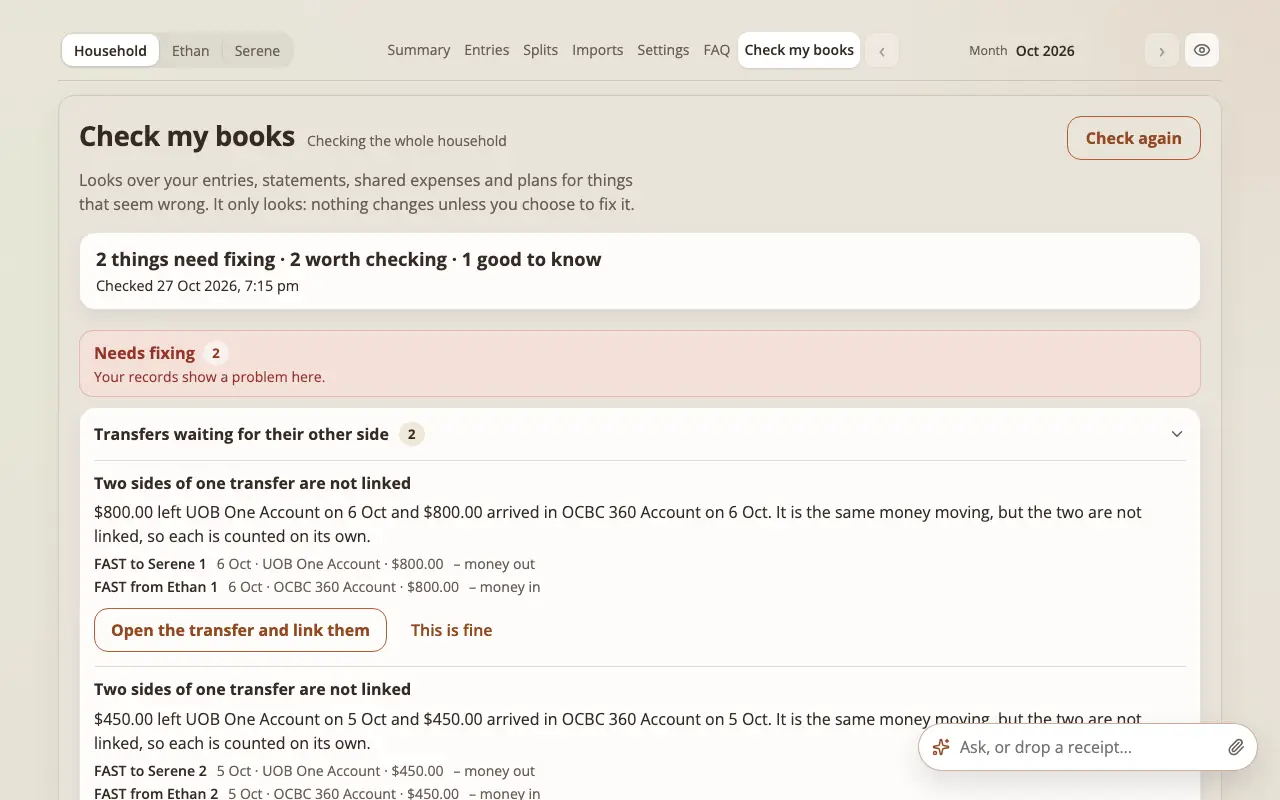
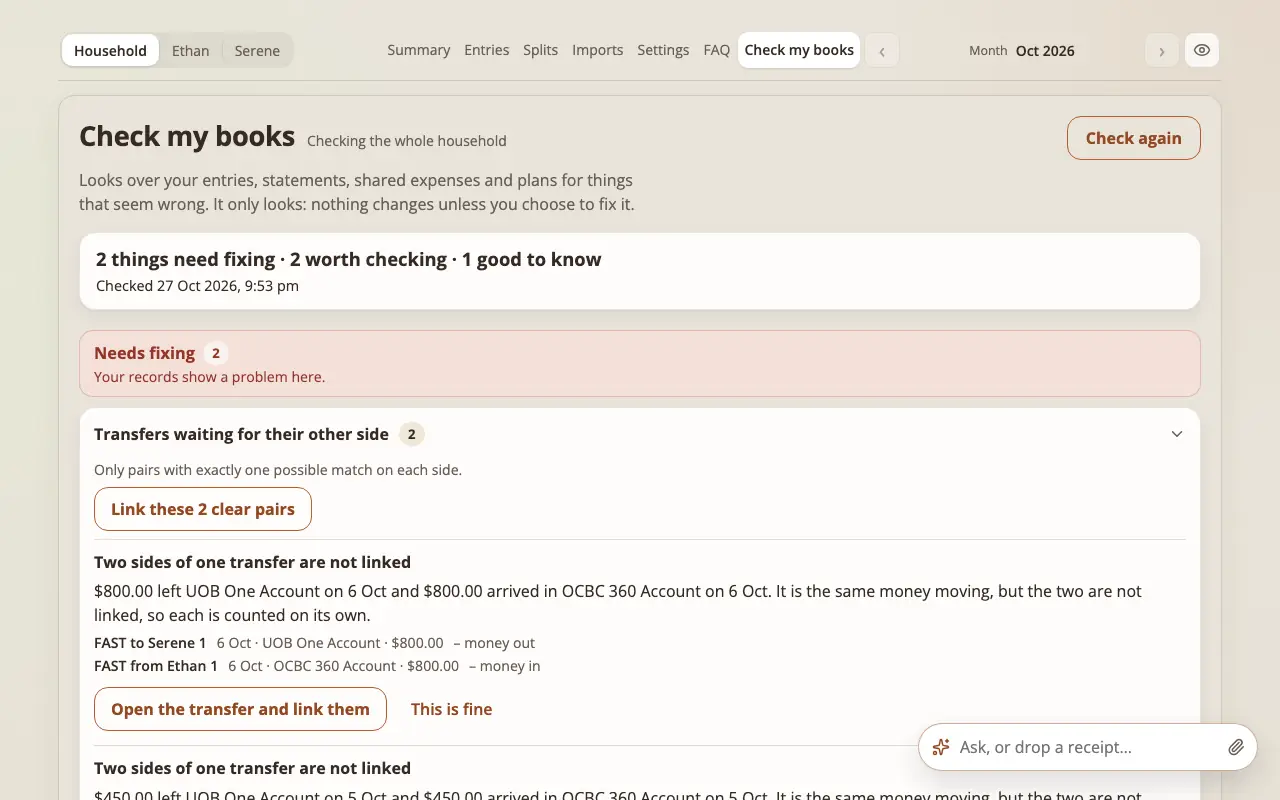
Add Link clear pairs e2e, guide screenshots and the opener focus return

Changed region(s): [[0.0625, 0.5625, 0.9062, 1.0], [0.1875, 0.3438, 0.2188, 0.375]]

diff --git a/tests/e2e/check-link-clear-pairs.spec.js b/tests/e2e/check-link-clear-pairs.spec.js
@@ -1,0 +1,205 @@
+import { devices, expect, test } from "@playwright/test";
+
+import { postJson, reseedDemo } from "./helpers";
+
+// "Link these N clear pairs" on Check my books (docs/flows/check-flow.md,
+// "Link clear pairs"), at a desktop width and at 390 px. Seven unlinked
+// transfer pairs of different amounts (each side has exactly one possible
+// match) make the group; the button opens one preview, nothing changes until
+// the confirming button, the result line says how many were linked and
+// skipped, the list and the counts then refresh, and a pair that changed
+// while the dialog was open is skipped by name. Money hidden shows no amount.
+
+const DESKTOP = { width: 1280, height: 900 };
+const PHONE = devices["iPhone 12 Pro"].viewport;
+const PAIRS = 7;
+
+function isoDay(offsetDays) {
+  return new Date(Date.now() + offsetDays * 86_400_000).toISOString().slice(0, 10);
+}
+
+async function seedPairs(page) {
+  await postJson(page, "/api/accounts/create", { name: "Joyce Bank", institution: "DBS", kind: "bank", currency: "SGD", openingBalanceMinor: 0, ownerPersonId: "person-joyce" });
+  const entry = (body) => postJson(page, "/api/entries/create", { ownershipType: "direct", ownerName: "Tim", categoryName: "Groceries", entryType: "expense", ...body });
+  const ids = [];
+  for (let index = 1; index <= PAIRS; index += 1) {
+    const amountMinor = 70_000 + index * 1_111;
+    const date = isoDay(-(20 + index * 3));
+    const out = await entry({ date, description: `FAST to Joyce ${index}`, accountName: "UOB Savings", categoryName: "Transfer", entryType: "transfer", transferDirection: "out", amountMinor });
+    const into = await entry({ date, description: `FAST from Tim ${index}`, accountName: "Joyce Bank", categoryName: "Transfer", entryType: "transfer", transferDirection: "in", amountMinor, ownerName: "Joyce" });
+    ids.push({ fromEntryId: out.entryId, toEntryId: into.entryId });
+  }
+  return ids;
+}
+
+async function readReport(page) {
+  const response = await page.request.get("/api/ledger-checkup");
+  expect(response.ok()).toBe(true);
+  return response.json();
+}
+
+async function loadCheck(page) {
+  const answered = page.waitForResponse((response) => response.url().includes("/api/ledger-checkup") && response.request().method() === "GET");
+  await page.goto("/check?view=household");
+  await answered;
+  await expect(page.getByRole("heading", { name: "Check my books", level: 2 })).toBeVisible();
+}
+
+const group = (page) => page.locator('[data-group="high:transfers"]');
+const dialog = (page) => page.getByRole("dialog");
+
+for (const [label, viewport] of [["desktop", DESKTOP], ["390 px phone", PHONE]]) {
+  test.describe(`Link clear pairs on ${label}`, () => {
+    test.use({ viewport });
+    let seeded;
+
+    test.beforeEach(async ({ page }) => {
+      await page.addInitScript(() => window.localStorage.setItem("monies-map:money-totals-visible", "true"));
+      await page.goto("/");
+      await reseedDemo(page);
+      seeded = await seedPairs(page);
+    });
+
+    test("the group says what clear means and offers the button with the server's count", async ({ page }) => {
+      const report = await readReport(page);
+      expect(report.clearTransferPairCount).toBe(PAIRS);
+      await loadCheck(page);
+      await expect(group(page).getByText("Only pairs with exactly one possible match on each side.")).toBeVisible();
+      await expect(group(page).getByRole("button", { name: `Link these ${PAIRS} clear pairs of transfers` })).toHaveText(`Link these ${PAIRS} clear pairs`);
+      // The ordinary rows are still there with their own link.
+      await expect(group(page).locator(".check-item[data-finding-id]").first().getByRole("button", { name: /^Open the transfer and link them/ })).toBeVisible();
+    });
+
+    test("the preview lists the pairs, Cancel changes nothing, and opening it shifts nothing", async ({ page }) => {
+      await loadCheck(page);
+      await page.evaluate(() => {
+        window.__shift = 0;
+        new PerformanceObserver((list) => {
+          for (const entry of list.getEntries()) if (!entry.hadRecentInput) window.__shift += entry.value;
+        }).observe({ type: "layout-shift", buffered: false });
+      });
+      const panelTop = async () => page.locator(".check-panel").evaluate((node) => Math.round(node.getBoundingClientRect().top + window.scrollY));
+      // Positions on the page itself (not the viewport, which the scroll moves).
+      const groupBox = async () => group(page).evaluate((node) => {
+        const box = node.getBoundingClientRect();
+        return { top: Math.round(box.top + window.scrollY), left: Math.round(box.left), width: Math.round(box.width), height: Math.round(box.height) };
+      });
+      const groupBefore = await groupBox();
+      const topBefore = await panelTop();
+      const before = await readReport(page);
+
+      await group(page).getByRole("button", { name: `Link these ${PAIRS} clear pairs of transfers` }).click();
+      await expect(dialog(page)).toBeVisible();
+      await expect(dialog(page)).toHaveAccessibleName(`Link ${PAIRS} clear pairs`);
+      await expect(dialog(page)).toContainText(`Link ${PAIRS} clear pairs`);
+      await expect(dialog(page).getByText(/^7 pairs, [A-Z][a-z]{2} \d{4}( to [A-Z][a-z]{2} \d{4})?$|^7 pairs in [A-Z][a-z]{2} \d{4}$/)).toBeVisible();
+      await expect(dialog(page).locator(".check-pairs-list li")).toHaveCount(PAIRS);
+      const first = dialog(page).locator(".check-pairs-list li").first();
+      await expect(first).toContainText("UOB Savings → Joyce Bank");
+      await expect(first.locator(".check-pairs-amount")).toHaveText(/^\$\d+/);
+      await expect(dialog(page)).toContainText("Each pair will become one move between your accounts. Nothing is deleted. You can unlink a pair from its details.");
+      await expect(dialog(page)).toContainText("There is no undo for all of them at once.");
+      await expect(dialog(page).getByRole("button", { name: `Link ${PAIRS} pairs` })).toBeEnabled();
+
+      await dialog(page).getByRole("button", { name: "Cancel" }).click();
+      await expect(dialog(page)).toHaveCount(0);
+      expect(await readReport(page)).toEqual({ ...before, generatedAt: expect.any(String) });
+      expect((await page.request.get("/api/ledger-checkup/clear-pairs")).ok()).toBe(true);
+      await expect(group(page).locator(".check-item[data-finding-id]").first()).toBeVisible();
+      expect(await panelTop()).toBe(topBefore);
+      expect(await groupBox()).toEqual(groupBefore);
+      expect(await page.evaluate(() => window.__shift)).toBe(0);
+    });
+
+    test("confirming links every pair once, says so, and the page then shows them gone", async ({ page }) => {
+      await loadCheck(page);
+      const linkRequests = [];
+      page.on("request", (request) => {
+        if (request.method() === "POST" && request.url().includes("/api/ledger-checkup/clear-pairs")) linkRequests.push(request.postDataJSON());
+      });
+      await group(page).getByRole("button", { name: `Link these ${PAIRS} clear pairs of transfers` }).click();
+      await dialog(page).getByRole("button", { name: `Link ${PAIRS} pairs` }).click();
+      await expect(dialog(page).getByRole("status").filter({ hasText: "Linked" })).toHaveText(`Linked ${PAIRS} pairs. 0 skipped.`);
+      // One request with exactly the pairs that were shown.
+      expect(linkRequests).toHaveLength(1);
+      expect(linkRequests[0].pairs.map((pair) => `${pair.fromEntryId}>${pair.toEntryId}`).sort()).toEqual(seeded.map((pair) => `${pair.fromEntryId}>${pair.toEntryId}`).sort());
+      await dialog(page).getByRole("button", { name: "Close", exact: true }).click();
+      await expect(dialog(page)).toHaveCount(0);
+
+      // The list and the counts refreshed: the group of waiting pairs is gone.
+      await expect(page.locator('[data-group="high:transfers"]')).toHaveCount(0);
+      const report = await readReport(page);
+      expect(report.clearTransferPairCount).toBe(0);
+      expect(report.kindCounts.unmatched_transfer?.high ?? 0).toBe(0);
+      await expect(page.locator("#check-summary-title")).not.toContainText("need");
+      // Focus did not fall back to the top of the document.
+      await expect(page.locator("#check-title")).toBeFocused();
+      // The entries really are linked pairs now.
+      const entries = await page.request.get(`/api/entries-page?view=household&month=${isoDay(-23).slice(0, 7)}`);
+      expect(entries.ok()).toBe(true);
+    });
+
+    test("a pair that changed while the dialog was open is skipped by name, the rest are linked", async ({ page }) => {
+      await loadCheck(page);
+      await group(page).getByRole("button", { name: `Link these ${PAIRS} clear pairs of transfers` }).click();
+      await expect(dialog(page).locator(".check-pairs-list li")).toHaveCount(PAIRS);
+      // Meanwhile one of them is linked by hand elsewhere.
+      const linked = await page.request.post("/api/transfers/link", { data: seeded[0] });
+      expect(linked.ok()).toBe(true);
+      await dialog(page).getByRole("button", { name: `Link ${PAIRS} pairs` }).click();
+      await expect(dialog(page).getByRole("status").filter({ hasText: "Linked" })).toHaveText(`Linked ${PAIRS - 1} pairs. 1 changed since you looked and was skipped.`);
+      await dialog(page).getByRole("button", { name: "Close", exact: true }).click();
+      expect((await readReport(page)).clearTransferPairCount).toBe(0);
+    });
+
+    test("with money hidden no amount is shown in the dialog", async ({ page }) => {
+      await page.addInitScript(() => window.localStorage.setItem("monies-map:money-totals-visible", "false"));
+      await loadCheck(page);
+      await group(page).getByRole("button", { name: `Link these ${PAIRS} clear pairs of transfers` }).click();
+      await expect(dialog(page).locator(".check-pairs-list li")).toHaveCount(PAIRS);
+      await expect(dialog(page).locator(".check-pairs-amount")).toHaveCount(0);
+      expect(await dialog(page).innerText()).not.toMatch(/\$|\b\d{2,3},?\d{3}\b|71,111/);
+      await dialog(page).getByRole("button", { name: "Cancel" }).click();
+    });
+
+    test("it works from the keyboard: Enter opens it, Escape closes it without linking, Enter on the confirming button links", async ({ page }) => {
+      await loadCheck(page);
+      const button = group(page).getByRole("button", { name: `Link these ${PAIRS} clear pairs of transfers` });
+      await button.focus();
+      await page.keyboard.press("Enter");
+      await expect(dialog(page)).toBeVisible();
+      await page.keyboard.press("Escape");
+      await expect(dialog(page)).toHaveCount(0);
+      await expect(button).toBeFocused();
+      expect((await readReport(page)).clearTransferPairCount).toBe(PAIRS);
+
+      await page.keyboard.press("Enter");
+      const confirm = dialog(page).getByRole("button", { name: `Link ${PAIRS} pairs` });
+      await expect(confirm).toBeVisible();
+      await confirm.focus();
+      await page.keyboard.press("Enter");
+      await expect(dialog(page).getByRole("status").filter({ hasText: "Linked" })).toHaveText(`Linked ${PAIRS} pairs. 0 skipped.`);
+      await page.keyboard.press("Escape");
+      await expect(dialog(page)).toHaveCount(0);
+    });
+
+    test("a failed link says nothing was linked and the same pairs can be tried again", async ({ page }) => {
+      await loadCheck(page);
+      let failures = 1;
+      await page.route("**/api/ledger-checkup/clear-pairs", async (route) => {
+        if (route.request().method() === "POST" && failures > 0) {
+          failures -= 1;
+          await route.fulfill({ status: 500, contentType: "application/json", body: JSON.stringify({ ok: false, error: "Nothing was linked. Try again." }) });
+          return;
+        }
+        await route.continue();
+      });
+      await group(page).getByRole("button", { name: `Link these ${PAIRS} clear pairs of transfers` }).click();
+      await dialog(page).getByRole("button", { name: `Link ${PAIRS} pairs` }).click();
+      await expect(dialog(page)).toContainText("Nothing was linked. Check your connection and try again.");
+      expect((await readReport(page)).clearTransferPairCount).toBe(PAIRS);
+      await dialog(page).getByRole("button", { name: `Link ${PAIRS} pairs` }).click();
+      await expect(dialog(page).getByRole("status").filter({ hasText: "Linked" })).toHaveText(`Linked ${PAIRS} pairs. 0 skipped.`);
+    });
+  });
+}

diff --git a/src/client/check-panel.jsx b/src/client/check-panel.jsx
@@ -145,17 +145,23 @@ export function CheckPanel({ view, runBackgroundRefresh, fetchRequiredQuery }) {
   // "Link these N clear pairs": the dialog lives here, not in the group, so it
   // stays open with its result when the linked pairs leave the list.
   const [linkPairsCount, setLinkPairsCount] = useState(0);
-  const openLinkPairs = useCallback((count) => setLinkPairsCount(count), []);
+  const linkPairsOpenerRef = useRef(null);
+  const openLinkPairs = useCallback((count) => {
+    linkPairsOpenerRef.current = document.activeElement instanceof HTMLElement ? document.activeElement : null;
+    setLinkPairsCount(count);
+  }, []);
   const closeLinkPairs = useCallback(() => {
     setLinkPairsCount(0);
-    // The button that opened it may be gone (everything was linked): focus
-    // goes to the page title instead of the top of the document.
-    window.requestAnimationFrame(() => {
-      const active = document.activeElement;
-      if (!active || active === document.body) {
-        panelRef.current?.querySelector("#check-title")?.focus();
+    // Focus goes back to the button that opened it; if that button is gone
+    // (everything was linked) it goes to the page title instead of the top of
+    // the document. Waits for the dialog's own focus handling to finish.
+    const opener = linkPairsOpenerRef.current;
+    window.setTimeout(() => window.requestAnimationFrame(() => {
+      const target = opener?.isConnected ? opener : panelRef.current?.querySelector("#check-title");
+      if (target instanceof HTMLElement) {
+        target.focus();
       }
-    });
+    }), 0);
   }, []);
   const afterLinkPairs = useCallback(() => {
     void runBackgroundRefresh(() => owner.refresh());
